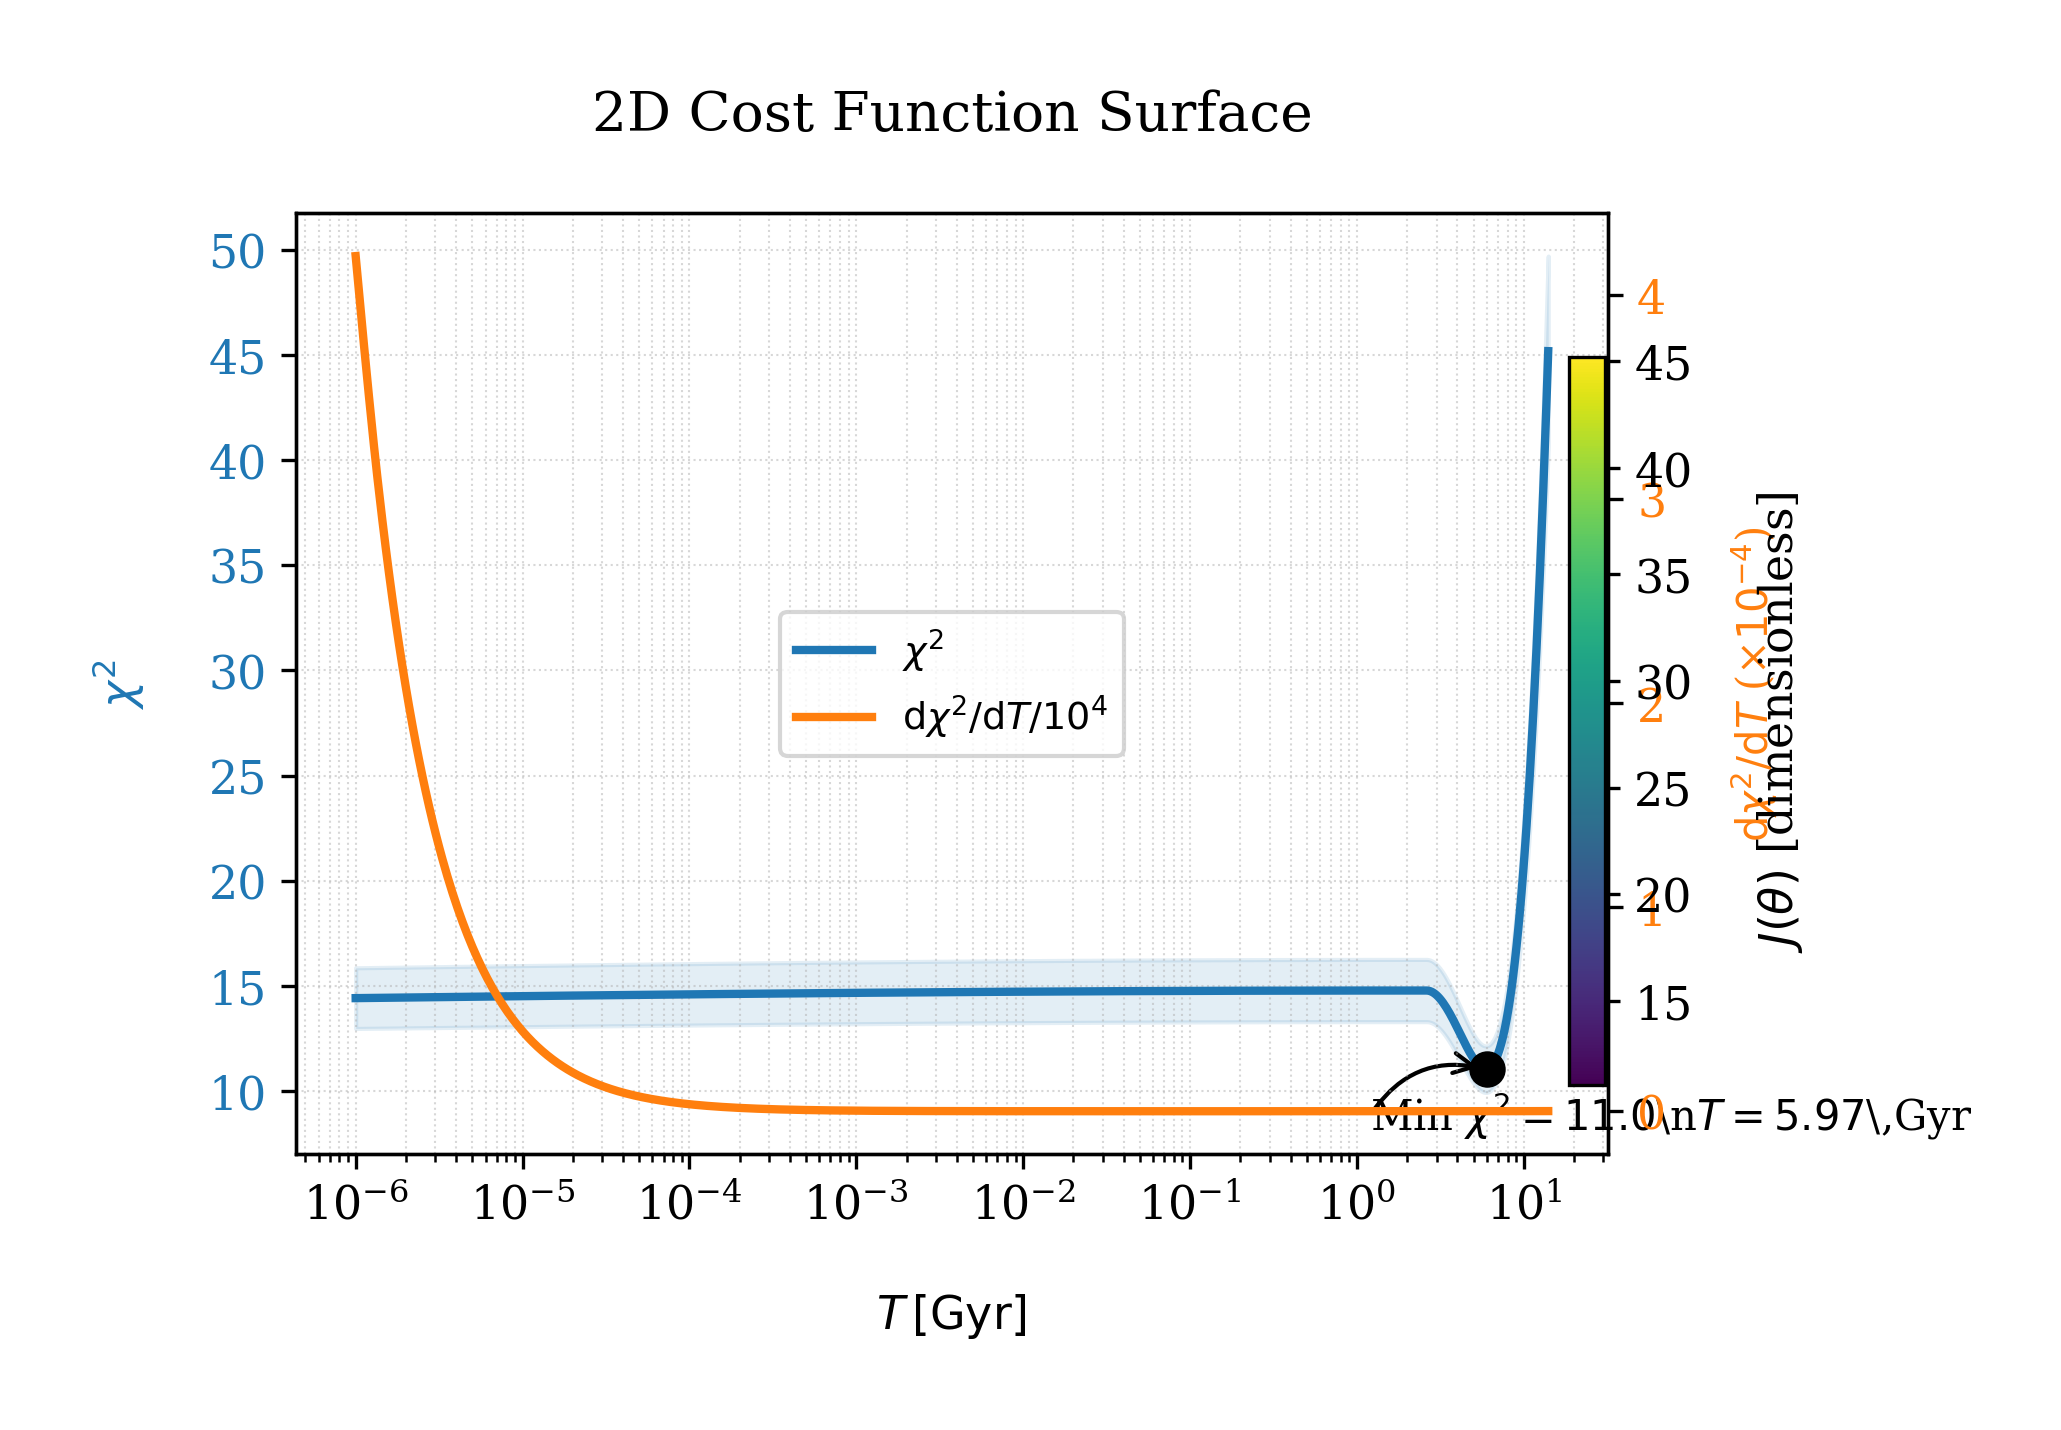
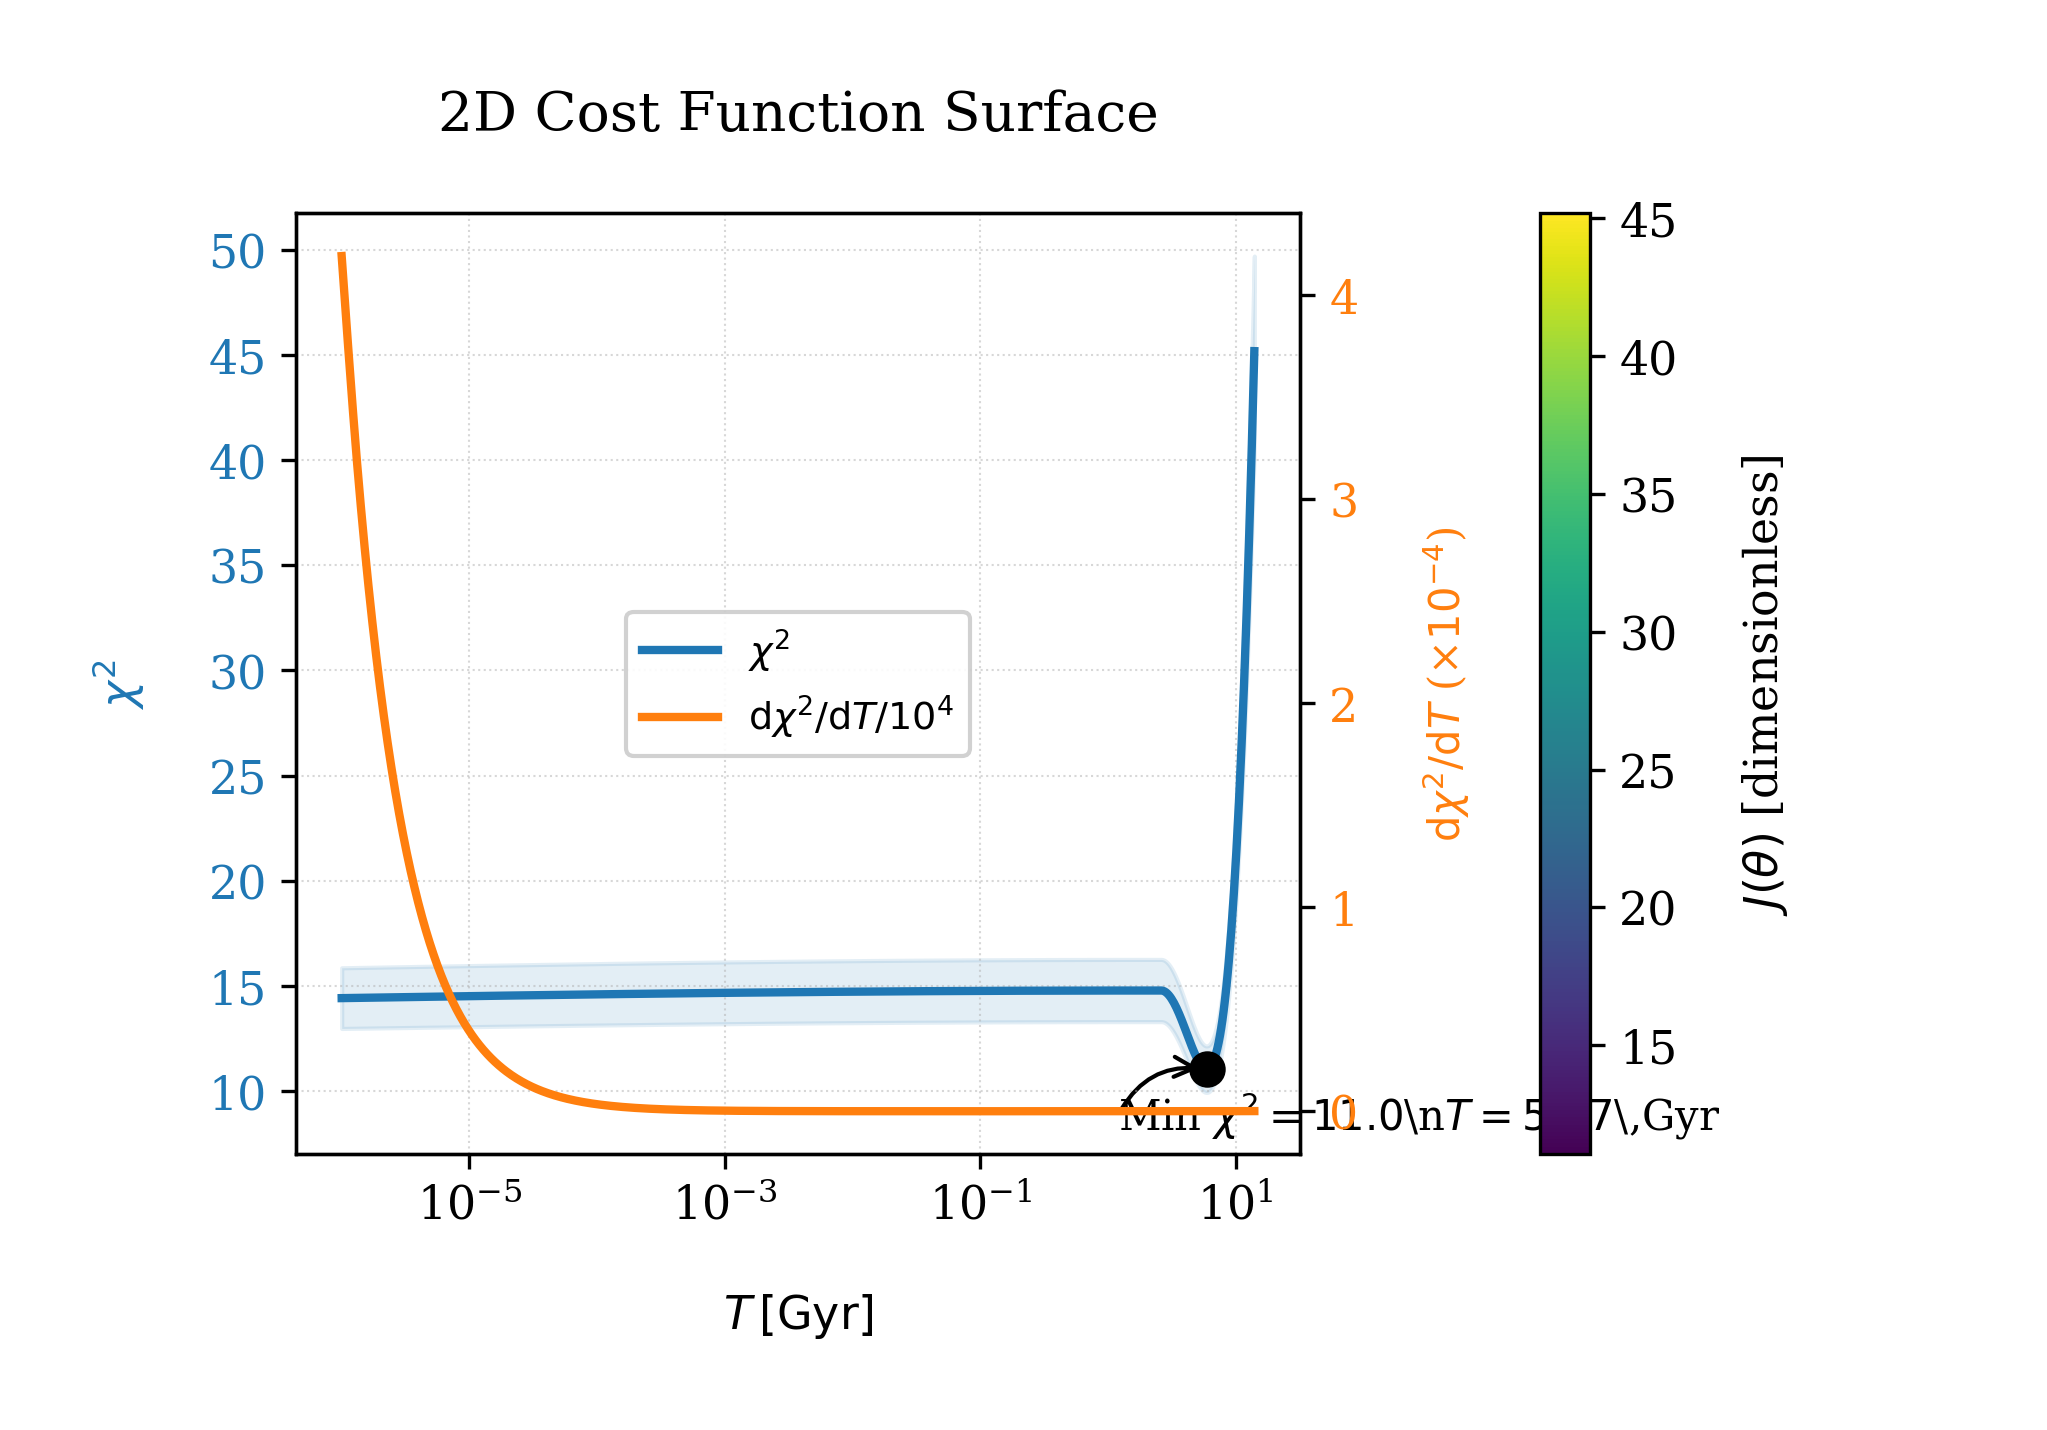
fix(viz): move colorbar to dedicated external axis for Fig 04 CH05

diff --git a/zz-scripts/chapter05/05_fig_04_cost_surface.py b/zz-scripts/chapter05/05_fig_04_cost_surface.py
@@ -62,6 +62,7 @@ from matplotlib.patches import FancyArrowPatch
 from matplotlib.cm import ScalarMappable
 from matplotlib.colors import Normalize
 from scipy.signal import savgol_filter
+from mpl_toolkits.axes_grid1 import make_axes_locatable
 
 # --- Répertoires et constantes ---
 ROOT = Path(__file__).resolve().parents[2]
@@ -238,7 +239,7 @@ def main(args=None) -> None:
         labels=[r"$\chi^2$", r"$\mathrm{d}\chi^2/\mathrm{d}T/10^4$"],
         loc="center",
         fontsize="small",
-        framealpha=0.8,
+        framealpha=0.9,
     )
 
     sm = ScalarMappable(
@@ -246,10 +247,12 @@ def main(args=None) -> None:
         cmap="viridis",
     )
     sm.set_array([])
-    cbar = plt.colorbar(sm, ax=[ax1, ax2], pad=0.25, shrink=0.7)
+    divider = make_axes_locatable(ax2)
+    cax = divider.append_axes("right", size="5%", pad=0.8)
+    cbar = plt.colorbar(sm, cax=cax)
     cbar.set_label(r"$J(\theta)$ [dimensionless]")
 
-    fig.subplots_adjust(left=0.04, right=0.80, bottom=0.06, top=0.96)
+    fig.subplots_adjust(left=0.04, right=0.75, bottom=0.06, top=0.96)
 
     if verbose:
         print(f"[plot_fig04_chi2_vs_T] sauvegarde -> {out_path}")
